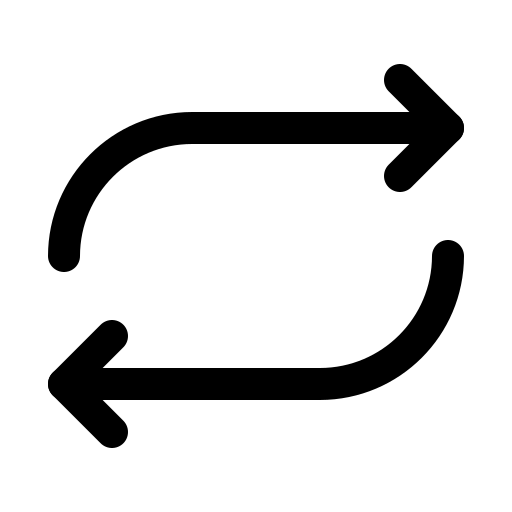
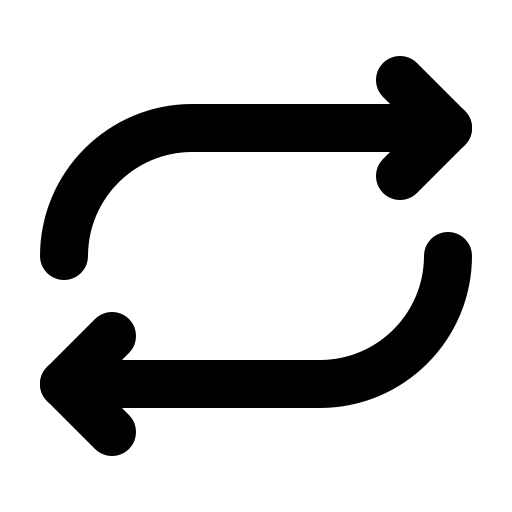
Add shuffle and repeat buttons to the player

diff --git a/player.py b/player.py
@@ -8,6 +8,7 @@ from PIL import Image, ImageTk
 import eyed3
 import datetime
 import threading
+from random import shuffle
 # Create the music player
 
 
@@ -29,7 +30,6 @@ class MusicPlayer:
         # Add placeholder text to search box
         self.placeholder = "Search Song"
         self.search_box.insert(0, self.placeholder)
-
 
         # Set the default theme
         self.style = ttk.Style()
@@ -63,6 +63,7 @@ class MusicPlayer:
         # This needs to be "None" need to fix this its connected to progress bar
         self.current_song_index = 0
         self.playing = False
+        self.repeat = False
 
         # Playlist Configuration
         self.playlist_listbox = Listbox(master, selectmode="MULTIPLE")
@@ -102,17 +103,34 @@ class MusicPlayer:
         # Resize factor for the icons
         resize_factor = 0.5
         # Load the icons
+
+        self.shuffle_icon = PhotoImage(file="shuffle.png")
+        self.shuffle_icon = self.shuffle_icon.subsample(
+            int(resize_factor * 100))
+        self.shuffle_button = ttk.Button(
+            button_frame, image=self.shuffle_icon, command=self.shuffle_songs)
+        self.shuffle_button.grid(row=0, column=0, padx=5)
+
+        self.repeat_icon = PhotoImage(file="repeat.png")
+        self.repeat_icon = self.repeat_icon.subsample(int(resize_factor * 60))
+        self.repeat_once_icon = PhotoImage(file="repeat_once.png")
+        self.repeat_once_icon = self.repeat_once_icon.subsample(
+            int(resize_factor * 60))
+        self.repeat_button = ttk.Button(
+            button_frame, image=self.repeat_icon, command=self.toggle_repeat)
+        self.repeat_button.grid(row=0, column=5, padx=5)
+
         self.play_icon = PhotoImage(file="play.png")
         self.play_icon = self.play_icon.subsample(int(resize_factor * 100))
         self.play_button = ttk.Button(
             button_frame, image=self.play_icon, command=self.play)
-        self.play_button.grid(row=0, column=2, padx=5)
+        self.play_button.grid(row=0, column=3, padx=5)
 
         self.pause_icon = PhotoImage(file="pause.png")
         self.pause_icon = self.pause_icon.subsample(int(resize_factor * 100))
         self.pause_button = ttk.Button(
             button_frame, image=self.pause_icon, command=self.pause)
-        self.pause_button.grid(row=0, column=1, padx=5)
+        self.pause_button.grid(row=0, column=2, padx=5)
         self.pause_button.grid_remove()  # Hide the pause button by default
 
         self.forward_icon = PhotoImage(file="forward.png")
@@ -127,7 +145,7 @@ class MusicPlayer:
             int(resize_factor * 100))
         self.backward_button = ttk.Button(
             button_frame, image=self.backward_icon, command=self.backward)
-        self.backward_button.grid(row=0, column=0, padx=5)
+        self.backward_button.grid(row=0, column=1, padx=5)
 
         # Create the progress bar
         self.progress_bar = ttk.Progressbar(
@@ -139,23 +157,34 @@ class MusicPlayer:
 
         master.protocol("WM_DELETE_WINDOW", self.on_closing)
 
+    # Toggle repeat
+
+    def toggle_repeat(self):
+        if self.repeat:
+            self.repeat = False
+            self.repeat_button.configure(image=self.repeat_icon)
+        else:
+            self.repeat = True
+            self.repeat_button.configure(image=self.repeat_once_icon)
+
     # Search the song
     def search_song(self, event):
         search_term = self.search_box.get()
         if search_term:
-            matching_songs = [song for song in self.original_song_library if search_term.lower() in os.path.basename(song).lower()]
+            matching_songs = [song for song in self.original_song_library if search_term.lower(
+            ) in os.path.basename(song).lower()]
             self.song_library = matching_songs
         else:
             self.song_library = self.original_song_library.copy()
         self.playlist_listbox.delete(0, "end")
         for song in self.song_library:
             self.playlist_listbox.insert("end", os.path.basename(song))
-        self.current_song_index = 0   
+        self.current_song_index = 0
 
-## The Search is working here but after the search box is cleared the songs are not coming back to the original list
-
+# The Search is working here but after the search box is cleared the songs are not coming back to the original list
 
     # Change theme
+
     def change_theme(self, event):
         selected_theme = self.theme_var.get()
         self.master.set_theme(selected_theme)
@@ -195,7 +224,8 @@ class MusicPlayer:
 
         # Removing the date added from the list and populating the song_library list
         self.song_library = [song[0] for song in self.song_details]
-        self.original_song_library = self.song_library.copy() # Store the original song library for search box
+        # Store the original song library for search box
+        self.original_song_library = self.song_library.copy()
         for song in self.song_library:
             self.playlist_listbox.insert("end", os.path.basename(song))
 
@@ -233,7 +263,6 @@ class MusicPlayer:
 
 # Stop the music
 
-
     def stop(self):
         pygame.mixer.music.stop()
         self.playing = False
@@ -260,16 +289,18 @@ class MusicPlayer:
             self.pause_button.grid()  # Show the pause button when playing the song
             self.playing = True
             self.update_progress_bar()
+            pygame.mixer.music.set_endevent(pygame.USEREVENT)
+            threading.Thread(target=self.wait_for_song_end,
+                             args=(song_data,)).start()
 
-        # # Calling the get_album_art function to get the album art
-        # album_art = self.get_album_art()
-
-        # song_name = song_names[self.current_song_index]
-        # album_art = self.song_library[self.current_song_index].album_art
-        # pygame.mixer.music.load(self.song_library[self.current_song_index])
-
+    def wait_for_song_end(self, song_data):
+        self.offset_time = 0
+        while pygame.event.wait().type != pygame.USEREVENT:
+            pass
+        if self.repeat:
+            self.play(song_data)
+            
 # Pause the music
-
     def pause(self):
         if self.playing:
             pygame.mixer.music.pause()
@@ -347,6 +378,13 @@ class MusicPlayer:
     #         pygame.mixer.music.set_pos(new_time / 1000)
 
     # Stop the music and close the window
+
+    def shuffle_songs(self):
+        shuffle(self.song_library)
+        self.playlist_listbox.delete(0, "end")
+        for song in self.song_library:
+            self.playlist_listbox.insert("end", os.path.basename(song))
+        self.current_song_index = 0
 
     def on_closing(self):
         self.stop()
